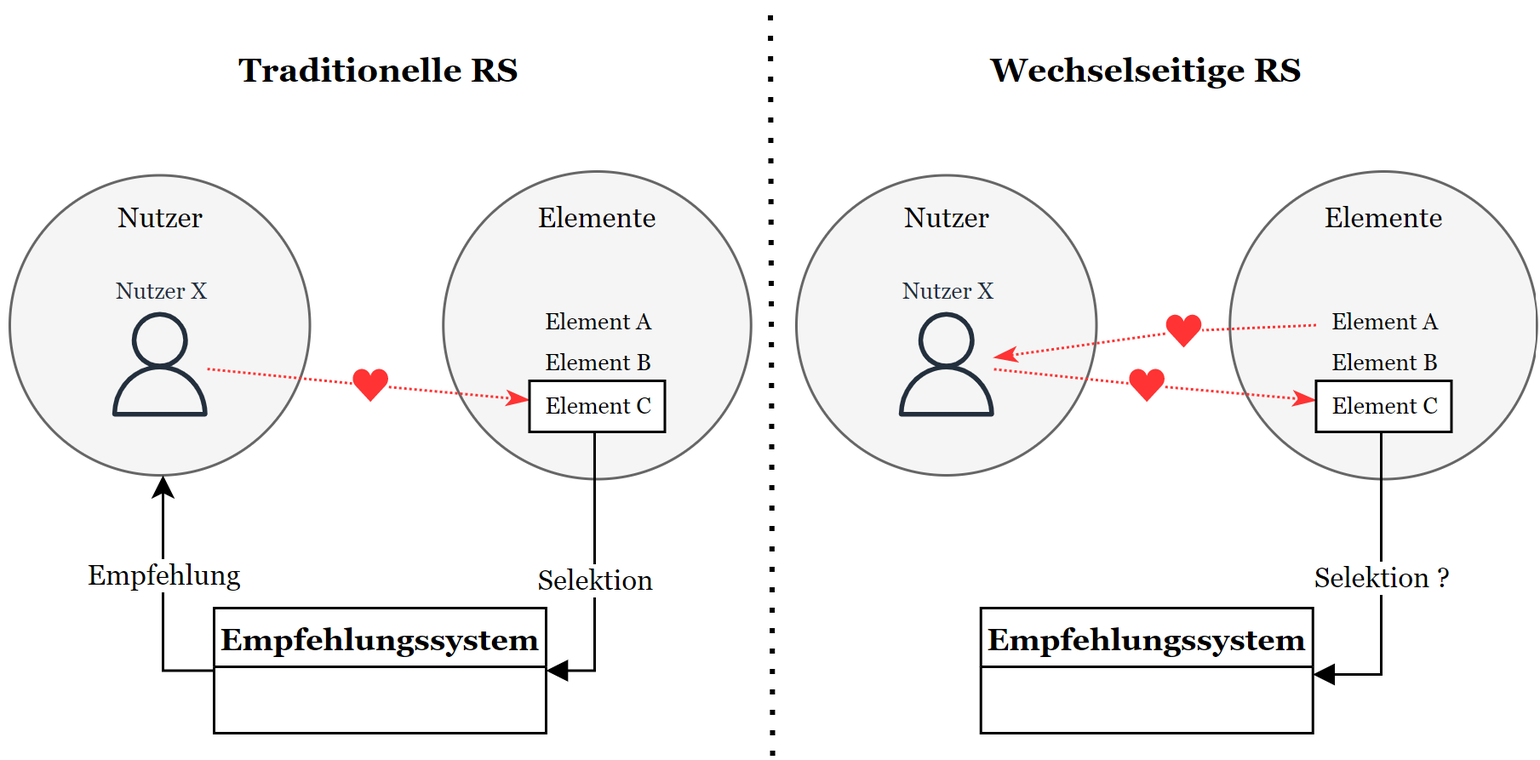
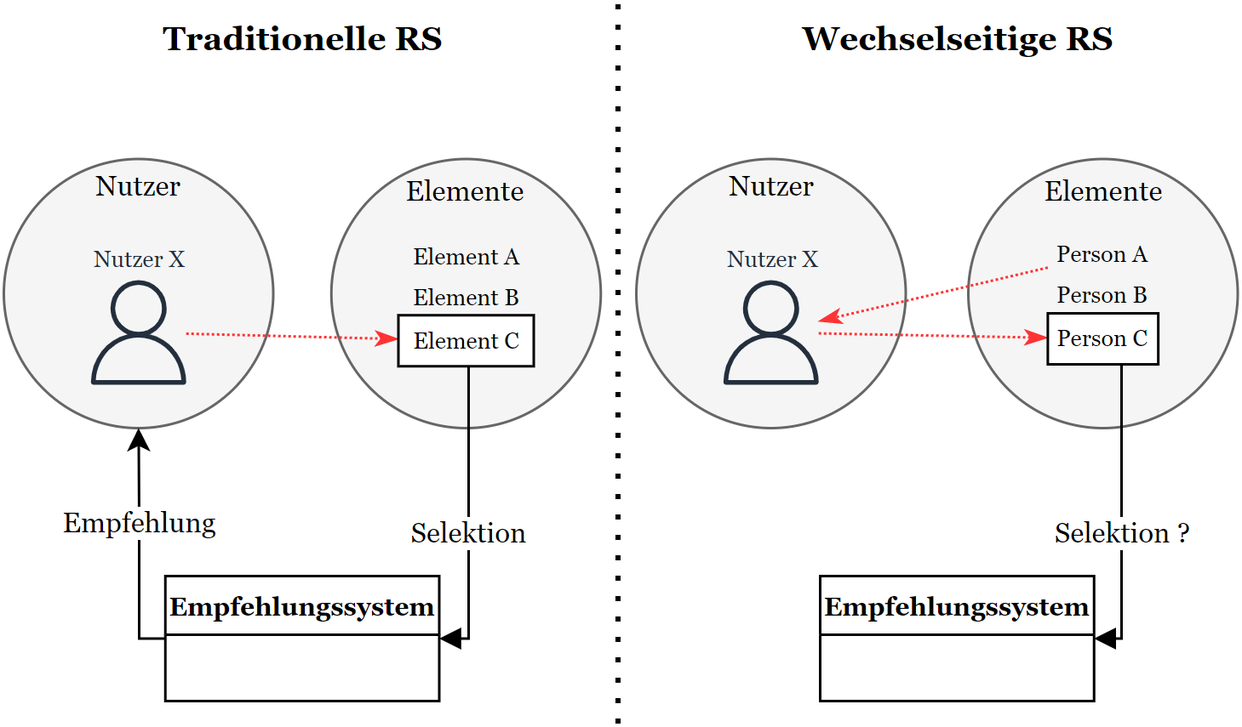
start problemstellung rrs

diff --git a/chapters/empfehlungssysteme.tex b/chapters/empfehlungssysteme.tex
@@ -41,23 +41,23 @@ Bekannte Beispiele für Attribute eines Nutzers sind das Geschlecht oder Alter e
 % Unterschied Kombination und Interaktion? Kombibnation ist nicht zwangsläufig das vorhandensein einer Interaktion
 
 % Einigung: Nützlichkeit bezieht sich nicht auf die Güte einer Empfehlung, sondern auf den Nutzen einer Kombination. Güte beschreibt Wert einer Empfehlung.
-Der Begriff der "Nützlichkeit" wird in der Literatur vermehrt verwendet, um den Wert eines Elements für einen Nutzer zu beschreiben \cite[S. 10f]{ricci:inbook}\cite[S. 1]{klahold:book}\cite[S. 735]{adomavicius:inproceedings}.\footnote{Unter der Nützlichkeit kann in dem Kontext von Empfehlungssystemen auch die Güte einer Empfehlung verstanden werden \cite[S. 37ff]{klahold:book}.}
+Der Begriff der "Nützlichkeit" wird in der Literatur vermehrt verwendet, um den Wert eines Elements für einen Nutzer zu beschreiben \cite[S. 10f.]{ricci:inbook}\cite[S. 1]{klahold:book}\cite[S. 735]{adomavicius:inproceedings}.\footnote{Unter der Nützlichkeit kann in dem Kontext von Empfehlungssystemen auch die Güte einer Empfehlung verstanden werden \cite[S. 37ff.]{klahold:book}.}
 Dabei kann der Nutzen sowohl unmittelbar über Angaben eines Nutzers erschlossen, als auch über eine Nutzenfunktion des Empfehlungssystems berechnet werden \cite[S. 735]{adomavicius:inproceedings}.
 Da die Ermittlung des Nutzen durchaus komplex sein kann, wird der Aspekt der "Nützlichkeit" in Kapitel \ref{ch:empfehlungssysteme:nutzenfunktion} ausführlich aufgegriffen.
 
 \section{Problemstellung}
 \label{ch:empfehlungssysteme:problemstellung}
 % Im vorangegangenen Kapitel wurden grundlegende Komponenten von Empfehlungssystemen und deren Zusammenspiel erläutert.
-Das grundlegende Problem, welches Empfehlungssysteme zu lösen versuchen, besteht darin, aus einer Menge an Elementen das Element bzw. die Elemente zu ermitteln, von denen angenommen werden kann, dass diese für die Empfänger einer Empfehlung von Relevanz sind \cite[S. 734f]{adomavicius:inproceedings}\cite[S. 76]{jannach:inproceedings}.
+Das grundlegende Problem, welches Empfehlungssysteme zu lösen versuchen, besteht darin, aus einer Menge an Elementen das Element bzw. die Elemente zu ermitteln, von denen angenommen werden kann, dass diese für die Empfänger einer Empfehlung von Relevanz sind \cite[S. 734f.]{adomavicius:inproceedings}\cite[S. 76]{jannach:inproceedings}.
 Relevanz bedeutet in dem Kontext von Empfehlungssystemen, dass die Empfehlung an einen Nutzer bzw. eine Gruppe an Nutzern einen maximalen Nutzen bietet \cite[S. 49]{adomavicius:inproceedings:2}\cite[S. 219]{lakiotaki:inproceedings}.
 Formal ausgedrückt besteht das Problem darin, einem Nutzer $c$ eine Menge an Elementen $s^{'}$ $\in$ $S$ zur Verfügung zu stellen, für die gilt:
 \begin{equation}\label{eq1}
     \forall c\in C,  s'_c = arg\max_{s \in S} R(c,s)
 \end{equation}
-Hierbei gibt $C$ die Menge aller Nutzer eines Systems und $R(c,s)$ den Nutzen einer Kombination $(c,s)$ an Element $s$ und Nutzer $c$ (im Folgenden Nutzer- Element- Kombination genannt \cite[S. 3]{recommenderSystems:2016}) an \cite[S. 734f]{adomavicius:inproceedings}\cite[S. 219]{lakiotaki:inproceedings}.
+Hierbei gibt $C$ die Menge aller Nutzer eines Systems und $R(c,s)$ den Nutzen einer Kombination $(c,s)$ an Element $s$ und Nutzer $c$ (im Folgenden Nutzer- Element- Kombination genannt \cite[S. 3]{recommenderSystems:2016}) an \cite[S. 734f.]{adomavicius:inproceedings}\cite[S. 219]{lakiotaki:inproceedings}.
 Der Kontext $K$ wird in \textcite[S. 1]{klahold:book} explizit für die Ermittlung des Nutzen einer Nutzer- Element- Kombination angeführt.
-Grundsätzlich stellen kontextbasierte Empfehlungssysteme, das heißt Syteme, die den Kontext von Empfehlungen für die Ermittlung des Nutzen berücksichtigen, eine Erweiterung traditioneller Empfehlungssyteme dar \cite[S. 744ff]{adomavicius:inproceedings}.
-In der Literatur wird der Nutzen einer Nutzer- Element- Kombination traditionell ohne Berücksichtigung des Kontextes betrachtet, weshalb der Kontext von Empfehlungen in dieser Arbeit vernachlässigt wird \cite[S. 734f]{adomavicius:inproceedings}\cite[S. 219]{lakiotaki:inproceedings}\cite[S. 3]{jawaheer:article}.
+Grundsätzlich stellen kontextbasierte Empfehlungssysteme, das heißt Syteme, die den Kontext von Empfehlungen für die Ermittlung des Nutzen berücksichtigen, eine Erweiterung traditioneller Empfehlungssyteme dar \cite[S. 744ff.]{adomavicius:inproceedings}.
+In der Literatur wird der Nutzen einer Nutzer- Element- Kombination traditionell ohne Berücksichtigung des Kontextes betrachtet, weshalb der Kontext von Empfehlungen in dieser Arbeit vernachlässigt wird \cite[S. 734f.]{adomavicius:inproceedings}\cite[S. 219]{lakiotaki:inproceedings}\cite[S. 3]{jawaheer:article}.
 In Anlehnung an \textcite[S. 3]{jawaheer:article} wird der interessierte Leser für eine detaillierte Übersicht zu kontextbasierten Empfehlungssystemen auf \textcite[S. 191ff]{adomavicius:3:inbook} verwiesen.
 % In den Formulierungen der Gleichung in \cite[S. 734f]{adomavicius:inproceedings} und \cite[S. 219]{lakiotaki:inproceedings} wird jedoch nicht explizit auf den Kontext als Bedingung zur Erfüllung von Gleichung \ref{eq1} hingewiesen.
 % Es wird angenommen, dass der Kontext für die Ermittlung der Güte einer Empfehlung implizit berücksichtigt wird und daher auf eine explizite Nennung verzichtet wurde. In Anlehnung an \cite[S. 734f]{adomavicius:inproceedings} und \cite[S. 219]{lakiotaki:inproceedings} wurde daher auf die explizite Unterscheidung im weiteren Verlauf verzichtet.
@@ -170,7 +170,7 @@ Demnach kann der Wert einer Bewertung $\hat{r}_{c,s}$ vorhergesagt werden, entwe
 % bei uns wird dann quasi u für alle werte berechnet, da wir ja nicht explizit einen wert annehmen, sondern Ro sich aus r1 und r2 usw zusammensetzt
 
 In der Praxis existieren verschiedene Techniken, um fehlende Nutzer-Elemet-Kombinationen vorherzusagen.
-Empfehlungssysteme können anhand der eingesetzten Technik für die Vorhersage in verschiedene Kategorien unterteilt werden \cite[S. 8 ff]{recommenderSystems:2016}.
+Empfehlungssysteme können anhand der eingesetzten Technik für die Vorhersage in verschiedene Kategorien unterteilt werden \cite[S. 8 ff.]{recommenderSystems:2016}.
 Zu den bekanntesten Kategorien von Empfehlungssystemen zählen:
 \begin{itemize}%Sind die mathematischen Bezeichnungen hier verwirrend oder sinnvoll?
 	\item \textit{Systeme des Kollaborativen Filterns:} Vorhersage fehlender Nutzer- Element- Interaktionen $r_{cs}$ eines Zielnutzers $c$ anhand vorhandener Nutzer- Element- Interaktionen $r_{c's}$ anderer Nutzer $c' \in C \backslash \{c\}$ des Systems, die dem Zielnutzer $c$ ähnlich sind.
@@ -180,7 +180,7 @@ Zu den bekanntesten Kategorien von Empfehlungssystemen zählen:
 \end{itemize}
 
 Der Fokus dieser Arbeit liegt auf der zweiten Phase des Empfehlungserstellungs-Prozesses, weshalb auf eine Erläuterung der Techniken nachfolgend verzichtet wird.
-Für eine detaillierte Übersicht der bekanntesten Werkzeuge wird der interessierte Leser auf \textcite[S. 8ff]{recommenderSystems:2016} verwiesen.
+Für eine detaillierte Übersicht der bekanntesten Werkzeuge wird der interessierte Leser auf \textcite[S. 8ff.]{recommenderSystems:2016} verwiesen.
 
 \subsection{Ranking}
 \label{ch:empfehlungssysteme:empfehlungserstellung:recommendation}
@@ -218,7 +218,7 @@ So kann es sinnvoll sein der Mitarbeiterin Erika M. die Fähigkeit MySQL für ei
 
 \section{Präferenzen in Empfehlungssystemen}
 \label{ch:empfehlungssysteme:preferences}
-Im Zusammenhang mit Empfehlungssystemen fällt häufig der Begriff der Präferenzen (engl.: preferences) \cite[S. 2]{ricci:inbook}\cite[S. 11f]{recommenderSystems:2016}.
+Im Zusammenhang mit Empfehlungssystemen fällt häufig der Begriff der Präferenzen (engl.: preferences) \cite[S. 2]{ricci:inbook}\cite[S. 11f.]{recommenderSystems:2016}.
 % Brauch man hier überhaupt ein zitat, wenn ich die Annahme selber aufstelle?
 In diesem Kapitel werden Präferenzen allgemein erläutert und in dem Kontext von Empfehlungssystemen inhaltlich abgegrenzt.
 
@@ -247,7 +247,7 @@ Das bedeutet, alle Nutzer eines Empfehlungssystems bekommen, unabhängig von der
 
 Für die Ermittlung nicht-personalisierter Empfehlungen können Popularitätsmetriken herangezogen werden.
 Dies folgt der Annahme, dass Popularität einen guten Prädiktor der Präferenzen aller Nutzer eines Systems darstellt \cite[S. 406]{unternährer:article}.
-Popularitätsmetriken stellen sortierte Listen dar, über die Elemente in ordinale Relationen gesetzt werden können (e.g. Element A ist "besser" als Element B, da es einen höheren Rang aufweist) \cite[S. 404ff]{unternährer:article}.
+Popularitätsmetriken stellen sortierte Listen dar, über die Elemente in ordinale Relationen gesetzt werden können (e.g. Element A ist "besser" als Element B, da es einen höheren Rang aufweist) \cite[S. 404ff.]{unternährer:article}.
 Die Listen werden basierend auf "aggregierten Präferenzen" aller Nutzer eines Systems generiert.
 Hierfür muss im Vorfeld bestimmt werden, welcher Indikator für die Bestimmung der Popularität in einem System geeignet ist (z.B. die Anzahl an Klicks oder Gefällt-mir-Angaben) \cite[S. 406]{unternährer:article}.
 
@@ -268,7 +268,7 @@ Der Grad der Personalisierung ermöglicht eine weitere Unterteilung der personal
 Unter schwacher Pesonalisierung versteht \textcite[S. 407]{unternährer:article} stereotypisierende Empfehlungen, die Nutzer, basierend auf deren Attributen (z.B. Wohnort, Alter, Geschlecht), bestimmten Kategorien zuordnen.
 Prinzipiell ähneln schwach-personalisierte Empfehlungen den nicht-personalisierten Empfehlungen, da sie auch basierend auf Popularitätsmetriken erstellt werden.
 Der Unterschied besteht darin, dass die Popularität von Elementen innerhalb einer Kategorie ermittelt wird.
-Die Empfehlungen der populärsten Elemente für einen Nutzer erfolgen dann in Abhängigkeit der kategorialen Zugehörigkeit des Nutzers \cite[S. 407ff]{unternährer:article}.
+Die Empfehlungen der populärsten Elemente für einen Nutzer erfolgen dann in Abhängigkeit der kategorialen Zugehörigkeit des Nutzers \cite[S. 407ff.]{unternährer:article}.
 
 Stark-personalisierte Empfehlungen verzichten auf pauschale und kategoriale Vorentscheidungen und beziehen sich für das Ermitteln von Empfehlungen auf paarweise Relationen (sog. "Good Matches") zwischen Nutzern untereinander bzw. zwischen Nutzern und deren Elementen \cite[S. 415]{unternährer:article}.
 Solche Sachverhalte sind vorwiegend in Systemen des Kollaborativen Filterns und Inhaltsbasierten Empfehlungssystemen anzutreffen.
@@ -283,7 +283,7 @@ Eine Voraussetzung für das Erstellen personalisierter Empfehlungen ist die Abbi
 
 \subsection{Zugrundeliegende Datenstruktur}% Frage ist, wie Präferenzen in RS aussehen, erwähnen
 Präferenzen von Nutzern werden in Empfehlungssystemen über sogenannte Nutzermodelle dargestellt \cite[S. 9]{ricci:inbook}\cite[S. 2]{jawaheer:article}\cite[S. 246]{berkovsky:article}.
-Nach \textcite[S. 249f]{berkovsky:article} speichern Nutzermodelle die Präferenzen traditionell in einer zweidimensionalen Matrix $R'_{gen}$:
+Nach \textcite[S. 249f.]{berkovsky:article} speichern Nutzermodelle die Präferenzen traditionell in einer zweidimensionalen Matrix $R'_{gen}$:
 \begin{equation}\label{eq4}
     R'_{gen}: Nutzer_{Attribut} \times Element_{Attribut} \rightarrow rating
 \end{equation}
@@ -293,7 +293,7 @@ Das $rating$ stellt die Bewertungen der Nutzer für Elemente dar \cite[S. 250]{b
 In Abhängigkeit der eingesetzten Technik innerhalb eines Empfehlungssystems (Vgl. Kapitel \ref{ch:empfehlungssysteme:empfehlungserstellung:prediction}) muss die Matrix $R'_{gen}$ Nutzermodelle mit unterschiedlichen Daten abbilden können. % Zitat? \cite[S. 248]{berkovsky:article}
 Hierfür sind in Abbildung \ref{fig:empfehlungssysteme:preferences:abb1} drei Beispiele unterschiedlicher Nutzermodelle grafisch dargestellt, welche nachfolgend erläutert werden.
 
-In Systemen des kollaborativen Filterns werden Präferenzen von Nutzern für Elemente in der Rating-Matrix $R$ gespeichert \cite[S. 246ff]{berkovsky:article}.
+In Systemen des kollaborativen Filterns werden Präferenzen von Nutzern für Elemente in der Rating-Matrix $R$ gespeichert \cite[S. 246ff.]{berkovsky:article}.
 Nutzer und Elemente werden dabei jeweils über ein eindeutiges Attribut (z.B. ID, Name) beschrieben.
 Daraus ergibt sich nach \textcite[S. 250]{berkovsky:article} für die Abbildung der Nutzermodelle in Matrix $R_{CF}$ folgende Form:
 \begin{equation}\label{eq5}
@@ -310,7 +310,8 @@ Mitarbeiter und Fähigkeiten werden jeweils eindeutig über deren Namen gekennze
     \subfloat[Nutzer$_{ID}\times$Element$_{ID}$ - Matrix]{\includegraphics[height=1.5in]{gfx/abbildung-präferenzen-A.png}\label{fig:empfehlungssysteme:preferences:abb1:1}}\\
     \subfloat[Nutzer$_{ID}\times$Element$_{Attribut}$ - Matrix]{\includegraphics[height=1.48in]{gfx/abbildung-präferenzen-B.png}\label{fig:empfehlungssysteme:preferences:abb1:2}}\\
     \subfloat[Nutzer$_{Attribut}\times$Element$_{Attribut}\times$Kontext$_{Attribut}$ - Matrix]{\includegraphics[height=1.85in]{gfx/abbildung-präferenzen-C.png}\label{fig:empfehlungssysteme:preferences:abb1:3}}
-  \caption{Abbildung von Präferenzen} \label{fig:empfehlungssysteme:preferences:abb1}
+  \caption[Abbildung von Präferenzen]{Abbildung von Präferenzen\\
+	(Eigene Darstellung in Anlehnung an \cite[S. 198]{adomavicius:3:inbook})}\label{fig:empfehlungssysteme:preferences:abb1}
 \end{figure}
 % Werden Nutzermodelle in Systemen folglich über eine Nutzer$\times$Element-Matrix abgebildet, können die Präferenzen eines Nutzers unmittelbar aus der Rating-Matrix abgelesen werden.
 
@@ -356,7 +357,7 @@ Für die Darstellung der Nutzermodelle wird daher in kontextbasierten Empfehlung
 \begin{equation}\label{eq9}
     R_{CA}: Nutzer_{Attribut} \times Element_{Attribut} \times Kontext_{Attribut} \rightarrow rating
 \end{equation}
-Matrix $R_{CA}$ erweitert die zweidimensionale Darstellung aus Gleichung \ref{eq4} um die Dimension $Kontext_{Attribut}$, welche den Kontext einer Bewertung angibt \cite[S. 254]{berkovsky:article}.\footnote{\textcite[S. 249ff]{berkovsky:article} merken an, dass es sich bei den Dimensionen $Nutzer_{Attribut}$ und $Element_{Attribut}$ auch um Sammlungen von Attributen handeln kann. Dies ist der Fall, wenn Nutzer oder Elemente für das Abbilden von Präferenzen über mehrere Attribute beschrieben werden. Angenommen die Präferenzen von Nutzern können über $n$ Attribute des Nutzers und $m$ Attribute der Elemente ($n \cup m > 1$) beschrieben werden, so ergibt sich für $R'_{gen}$ eine multidimenisonale $n+m$-Matrix. Dies gilt analog für die Dimension $Context_{Attribut}$ \cite[S. 254f]{berkovsky:article}.}
+Matrix $R_{CA}$ erweitert die zweidimensionale Darstellung aus Gleichung \ref{eq4} um die Dimension $Kontext_{Attribut}$, welche den Kontext einer Bewertung angibt \cite[S. 254]{berkovsky:article}.\footnote{\textcite[S. 249ff.]{berkovsky:article} merken an, dass es sich bei den Dimensionen $Nutzer_{Attribut}$ und $Element_{Attribut}$ auch um Sammlungen von Attributen handeln kann. Dies ist der Fall, wenn Nutzer oder Elemente für das Abbilden von Präferenzen über mehrere Attribute beschrieben werden. Angenommen die Präferenzen von Nutzern können über $n$ Attribute des Nutzers und $m$ Attribute der Elemente ($n \cup m > 1$) beschrieben werden, so ergibt sich für $R'_{gen}$ eine multidimenisonale $n+m$-Matrix. Dies gilt analog für die Dimension $Context_{Attribut}$ \cite[S. 254f.]{berkovsky:article}.}
 % MIT AUFNEHMEN JA/ NEIN?
 % In Anlehnung an \textcite[S. 250ff]{berkovsky:article} und \textcite[S. 198]{adomavicius:3:inbook} kann für die Abbildung der zugehörigen Nutzermodelle Liste an Tripeln angenommen werden:
 % \begin{equation}\label{eq10}
@@ -382,19 +383,21 @@ Das Nutzermodell $UM$ des Mitarbeiters John D. ist in Abbildung \ref{fig:empfehl
 \label{ch:empfehlungssysteme:rrs}
 % Problem: ist reciprocal recommender nur, wenn das empfehlende element auch selber entscheidet, wen es annimmt?
 Nach \textcite[S. 2429]{palomares:inproceedings} werden Empfehlungssysteme größtenteils in Online-Diensten eingesetzt, um Nutzern basierend auf ihren (expliziten oder impliziten) Präferenzen potenziell interessante Elemente vorzuschlagen.
-Zu klassischen Inhalten von Empfehlungen zählt \textcite[S. 2429]{palomares:inproceedings} unter anderem Musik, Filme, Konsumgüter, Hotels und Restaurants. 
-Empfehlungssysteme, in denen die Inhalte von Empfehlungen gleichzeitig die Nutzer eines Systems bilden (bspw. in Online-Dating-Plattformen oder Recruiting-Systemen), werden in der Literatur als wechselseitige Empfehlungssysteme (engl.: \ac{RRS}) bezeichnet \cite[S. 207]{pizzato:2010}\cite[S. 2199]{akehurst:inproceedings}.
-Nachfolgend soll das Konzept der RRS und dessen zugrundeliegende Problemstellung erläutert werden.
-
-%Im vorangegangenen Kapitel wurde der Begriff der Präferenzen als Vorlieben und Verhaltensweisen von Nutzern in Empfehlungssystemen definiert.
+Zu klassischen Inhalten von Empfehlungen zählt \textcite[S. 2429]{palomares:inproceedings} Objekte wie Musik, Filme, Konsumgüter und Restaurants. 
+ 
+% Als wechselseitig werden Empfehlungssysteme bezeichnet, in denen Personen den Inhalt von Empfehlungen bilden und für die Empfehlungserstellung sowohl die Präferenzen der Empfänger, als auch der empfohlenen Personen berücksichtigt werden (bspw. in Online-Dating-Plattformen oder Recruiting-Systemen) \cite[S. 35]{li:inproceedings}\cite[S. 2199]{akehurst:inproceedings}\cite[S. 207]{pizzato:2010}.
+Empfehlungssysteme, in denen Personen die Inhalte von Empfehlungen bilden und diese Empfehlungen reziprok sind, werden in der Literatur als wechselseitige Empfehlungssysteme (engl.: \ac{RRS}) bezeichnet \cite[S. 35]{li:inproceedings}\cite[S. 2199]{akehurst:inproceedings}\cite[S. 207]{pizzato:2010}.
+Reziprok bedeutet, dass für eine erfolgreiche Empfehlung sowohl die Präferenzen des Empfängers einer Empfehlung, als auch die Präferenzen der empfohlenen Person berücksichtigt werden \cite[S. 447]{pizzato:2013}\cite[S. 22]{kleinerman:inproceedings}.
+Bekannte Domänen für den Einsatz wechselseitiger Empfehlungssysteme sind Online-Dating und (semi-)automatisiertes Recruiting.
+Nachfolgend wird das Konzept der RRS und dessen zugrundeliegende Problemstellung erläutert.
 
 \subsection{People-to-People-Empfehlung}% oder umbenennen in Allgemeines Konzept
 \label{ch:empfehlungssysteme:rrs:people_to_people}
 Ein grundlegender Unterschied zwischen klassischen Empfehlungssystemen und RRS liegt in der Art der Empfehlung.
-Diese können in \ac{I2P} und \ac{P2P}-Empfehlungen unterschieden werden \cite[S. 62f]{kim:inproceedings}.
+Diese können in \ac{I2P}- und \ac{P2P}-Empfehlungen unterschieden werden \cite[S. 62f.]{kim:inproceedings}.
 
-In der Literatur wird unter traditioneller I2P-Empfehlung die Empfehlung klassischer Inhalte (z.B. Bücher, Filme, Restaurants) verstanden \cite[S. 2199]{akehurst:inproceedings}\cite[S. 2429]{palomares:inproceedings}.
-In I2P-Empfehlungen ist der Erfolg einer Empfehlung durch die Akzeptanz des Empfehlungsempfängers (Nutzer) gekennzeichnet \cite[S. 131]{kleinerman:2:inproceedings}\cite[S. 546]{koprinska:inbook}.
+In der Literatur wird unter traditioneller I2P-Empfehlung die Empfehlung klassischer Inhalte (z.B. Bücher, Filme, Hotels) verstanden \cite[S. 2199]{akehurst:inproceedings}\cite[S. 2429]{palomares:inproceedings}.
+In I2P-Empfehlungen ist der Erfolg einer Empfehlung durch die Akzeptanz des Empfehlungsempfängers (d.h. des Nutzers) gekennzeichnet \cite[S. 131]{kleinerman:2:inproceedings}\cite[S. 546]{koprinska:inbook}.
 Für personalisierte I2P-Empfehlungen verwenden Empfehlungssysteme Wissen über die Präferenzen der Nutzer, um ihnen potenziell interessante Elemente zu empfehlen \cite[S. 403]{terveen:article}.
 
 % Ein grundlegendes Problem, welches dieser Art der Empfehlung löst, ist das Problem der Informationsüberlastung \cite[S. 403]{terveen:article}.
@@ -406,42 +409,22 @@ Im Gegensatz zu I2P-Empfehlungen, handelt es sich bei den empfohlenen Elementen 
 Das bedeutet, dass die empfohlenen Elemente Präferenzen besitzen und auch positiv oder negativ reagieren können \cite[S. 2]{kazienko:inbook}.
 Dies ist ein besonderer Aspekt, den es zu beachten gilt, da dadurch die Qualität der Empfehlungen beeinflusst werden kann \cite[S. 208]{pizzato:2010}\cite[S. 2199]{akehurst:inproceedings}.
 
-
 \subsection{Abgrenzung traditioneller Empfehlungssysteme}
 \label{ch:empfehlungssysteme:rrs:traditional_vs_rrs}
-Ein Großteil der P2P-Empfehlungen beruhen auf dem Aspekt der Reziprozität (engl.: reciprocity (dt.: Gegenseitigkeit)) \cite[S. 545]{koprinska:inbook}.
-Das bedeutet, dass für eine erfolgreiche Empfehlung sowohl die Präferenzen des Empfängers einer Empfehlung, als auch die Präferenzen der empfohlenen Person berücksichtigt werden \cite[S. 447]{pizzato:2013}\cite[S. 22]{kleinerman:inproceedings}.
-Der Erfolg einer Empfehlung hängt folglich von bilateralen Präferenzen ab, nicht wie in traditionellen Systemen lediglich von den Präferenzen der Nutzer \cite[S. 1468]{yildirim:article}.
+Bei Empfehlungen in RRS handelt es sich um reziproke P2P-Empfehlungen \cite[S. 207]{pizzato:2010}.
+Das heißt, der Erfolg einer Empfehlung in RRS hängt von der Berücksichtigung der bilateralen Präferenzen ab, nicht, wie in traditionellen Systemen, lediglich von den Präferenzen der Nutzer \cite[S. 1468]{yildirim:article}.
 So reicht es beispielsweise in einem Recruiting-System nicht aus, lediglich die Präferenzen eines Akteurs (bspw. dem Recruiter) zu berücksichtigen.
 Damit dem Recruiter auch Personen vorgeschlagen werden, die ein potenzielles Angebot annehmen würden, müssen die Präferenzen der Stellensuchenden ebenfalls in Betracht gezogen werden.
 Andernfalls besteht die Gefahr, dass einem Recruiter Stellensuchende vorgeschlagen werden, die aufgrund ihrer Präferenzen ein Angebot des Recruiters ablehnen.
 
-Nicht jede P2P-Empfehlung ist unmittelbar reziprok.
+Ein Großteil der P2P-Empfehlungen beruhen auf dem Aspekt der Reziprozität (engl.: reciprocity) \cite[S. 545]{koprinska:inbook}.
+Jedoch ist nicht jede P2P-Empfehlung unmittelbar reziprok.
 Empfehlungen können auch P2P-Empfehlungen sein und lediglich die Präferenzen des Nutzers berücksichtigen \cite[S. 2429]{palomares:inproceedings}.
 Ein Beispiel stellen P2P-Empfehlungen des sozialen Netzwerks Twitter dar \cite[S. 2429]{palomares:inproceedings}.
 Der Vorschlag einer anderen Person zu folgen beruht dabei lediglich auf den Präferenzen des Empfängers des Vorschlags.
 
 Neben dem Aspekt der Reziprozität besitzen RRS zusätzliche Eigenschaften, welche diese im Vergleich zu traditionellen Empfehlungssystemen inhärent komplex machen\cite[S. 2429]{palomares:inproceedings}\cite[S. 35]{li:inproceedings}\cite[S. 207]{pizzato:2010}.
 Die wichtigsten Unterschiede zwischen RRS und traditionellen RS sind in Tabelle \ref{tab2} zusammengefasst \cite[S. 546]{koprinska:inbook}.
-
-\begin{table}[htbp]
-    \begin{center}
-        \begin{tabular}{p{0.2\textwidth}|p{0.35\textwidth}|p{0.35\textwidth}}
-             & {\textbf{Traditionelle RS}} & {\textbf{Reciprocal RS}} \\
-            \hline
-            Reziprozität & Erfolg einer Empfehlung ist durch den Empfänger bestimmt. &  Erfolg einer Empfehlung ist sowohl durch den Empfänger als auch der empfohlenen Person bestimmt. \\
-            \hline
-            Passivität & Es wird akzeptiert, dass einige Elemente nicht Teil irgendwelcher Empfehlungen sind. &  Auch reaktive Nutzer müssen Teil von Empfehlungen sein. \\
-            \hline
-            Rolle der Nutzerprofile & Kein Anreiz für Nutzer zum Pflegen des Nutzerprofils. &  Das Pflegen von Nutzerprofilen wird erwartet. \\
-            \hline
-            Endlichkeit & Ein Element kann allen Nutzern vorgeschlagen werden. & Beliebte Personen sollten nicht allen Nutzern vorgeschlagen werden. \\
-    \end{tabular}
-    \end{center}
-    \caption[Grundlegende Unterschiede von RS und RRS]{Grundlegende Unterschiede von RS und RRS \\
-	(Eigene Darstellung in Anlehnung an \cite[S. 546]{koprinska:inbook} und \cite[S. 35f]{li:inproceedings})}
-	\label{tab2}
-\end{table}
 
 In RRS ist es von Bedeutung die Passivität von Personen zu berücksichtigen \cite[S. 35]{li:inproceedings}.
 Dazu gehört hauptsächlich, reaktive Personen in Empfehlungen einzubeziehen, die nicht aktiv den Kontakt zu anderen Personen suchen \cite[S. 459]{pizzato:2013}.
@@ -463,13 +446,40 @@ Das bedeutet, ein Element kann zeitgleich jedem Nutzer eines Systems vorgeschlag
 Diese Eigenschaft wird als Endlichkeit bezeichnet \cite[S. 35]{li:inproceedings}.
 % Weiterer unterschied: RRS unterstützen keine n-to-n connections % S. 423, https://link.springer.com/content/pdf/10.1007/978-1-0716-2197-4.pdf
 
+\begin{table}[htbp]
+    \begin{center}
+        \begin{tabular}{p{0.2\textwidth}|p{0.35\textwidth}|p{0.35\textwidth}}
+             & {\textbf{Traditionelle RS}} & {\textbf{Reciprocal RS}} \\
+            \hline
+            Reziprozität & Erfolg einer Empfehlung ist durch den Empfänger bestimmt. &  Erfolg einer Empfehlung ist sowohl durch den Empfänger als auch der empfohlenen Person bestimmt. \\
+            \hline
+            Passivität & Es wird akzeptiert, dass einige Elemente nicht Teil irgendwelcher Empfehlungen sind. &  Auch reaktive Nutzer müssen Teil von Empfehlungen sein. \\
+            \hline
+            Rolle der Nutzerprofile & Kein Anreiz für Nutzer zum Pflegen des Nutzerprofils. &  Das Pflegen von Nutzerprofilen wird erwartet. \\
+            \hline
+            Endlichkeit & Ein Element kann allen Nutzern vorgeschlagen werden. & Beliebte Personen sollten nicht allen Nutzern vorgeschlagen werden. \\
+    \end{tabular}
+    \end{center}
+    \caption[Grundlegende Unterschiede von RS und RRS]{Grundlegende Unterschiede von RS und RRS \\
+	(Eigene Darstellung in Anlehnung an \cite[S. 546]{koprinska:inbook} und \cite[S. 35f.]{li:inproceedings})}
+	\label{tab2}
+\end{table}
+
 \subsection{Problemstellung}
 Nach \textcite[S. 35]{li:inproceedings} stellt das Zufriedenstellen der Bedürfnisse beider Akteure, das heißt von sowohl Empfänger einer Empfehlung als auch empfohlener Person, die größte Herausforderung wechselseitiger RS dar.
-Dieser Zusammenhang ist nachfolgend in Abbildung \ref{fig:empfehlungssysteme:rrs:abb1} dargestellt.
-Ein roter Pfeil von einer Person zu einer anderen stellt hierbei die Präferenz einer Person für eine andere dar.
-% Hier erklären, dass das bedeutet, dass eine person den präferenzen entpsricht (bspw. aufgrund von angaben im nutzerprofil)
-major challenge: how to satisfy the needs of both users in a rec % S. 35, file://wsl%24/Ubuntu/home/masc6/Projects/masterarbeit/literatur/MEET%20-%20A%20Generalized%20Framework.pdf
-stable marriage problem % file://wsl%24/Ubuntu/home/masc6/Projects/masterarbeit/literatur/MEET%20-%20A%20Generalized%20Framework.pdf
+Das Problem ist nachfolgend in Abbildung \ref{fig:empfehlungssysteme:rrs:abb1} veranschaulicht.\footnote{Es gilt zu beachten, dass in RRS die Elemente von Empfehlungen (empfohlene Personen) gleichzeitig auch Nutzer desselbigen Systems darstellen können.}
+Hierfür wurde die vereinfachte Darstellung des Empfehlungssystems aus Abbildung \ref{fig:empfehlungssysteme:einführung:abb1} aufgegriffen.
+
+Auf der linken Seite der Abbildung sind die Komponenten eines traditionellen Empfehlungssystems dargestellt.
+Elemente, die die Bedürfnisse des Nutzers $X$ erfüllen, sind durch einen empfangenden roten Pfeil gekennzeichnet.
+Fehlende Verbindungen zwischen Elementen und dem Nutzer $X$ bedeuten, dass ein Element die Bedürfnisse des Nutzers $X$ nicht erfüllt.
+Soll dem Nutzer $X$ das Element empfohlen werden, welches seine Bedürfnisse am stärksten erfüllt, würde nach Abbildung \ref{fig:empfehlungssysteme:rrs:abb1} eindeutig Element $C$ ausgewählt werden.
+
+Auf der rechten Seite von Abbildung \ref{fig:empfehlungssysteme:rrs:abb1} sind die Komponenten eines wechselseitigen Empfehlungssystems vereinfacht dargestellt.
+Zusätzlich zu den präferierten Elementen des Nutzers $X$ sind in der Darstellung auch die Präferenzen der empfohlenen Personen abgebildet.
+Daraus wird ersichtlich, dass Person $C$ die Bedürfnisse des Nutzers $X$ erfüllt, aber eine Empfehlung von Person $C$ für Nutzer $X$ nicht die Bedürfnisse von Person $C$ erfüllen würde.
+Eine Empfehlung von Person $A$ würde die Bedürfnisse von Person $A$ erfüllen, dann jedoch die Bedürfnisse des Nutzers $X$ unerfüllt lassen.
+Das Problem besteht folglich darin, aus einer Menge an Personen eine passende Person für Nutzer $X$ zu ermitteln, sodass sowohl die Bedürfnisse des Nutzers als auch der empfohlenen Person möglichst optimal erfüllt werden.
 
 \begin{figure}[H]
     \centering
@@ -477,5 +487,17 @@ stable marriage problem % file://wsl%24/Ubuntu/home/masc6/Projects/masterarbeit/
 	\caption[Traditionelle vs. wechselseitige Empfehlungssysteme]{Traditionelle vs. wechselseitige Empfehlungssysteme\\}
 	\label{fig:empfehlungssysteme:rrs:abb1}
 \end{figure}
+
+Nach \textcite[S. 36]{li:inproceedings} kann diese Problemstellung der reziproken Empfehlung mathematisch als das "Stable Marriage"-Problem modelliert werden.
+Das "Stable-Marriage"-Problem beschreibt das Problem eine optimale Paarung (engl.: Match) zweier Elemente anhand ihrer Präferenzen zu Bestimmen, sodass keines der Elemente durch Paarung mit einem anderen Partner besser gestellt wäre \cite[S. 36]{li:inproceedings}\cite[S. 67]{diaz:inproceedings}.
+Formal kann das Problem formuliert werden als:
+\begin{equation}\label{eq10}
+    s'_c = arg\max_{s \in S} F_{s}^{d} \textnormal{ satisfies } F_{c}^{p} \cap F_{c}^{d} \textnormal{ satisfies } F_{s}^{p}
+\end{equation}
+
+Für reziproke Empfehlungen wird meist kein "hartes" Match zwischen Nutzer und Element gesucht, sondern eine sortierte Liste an potenziellen Partnern für einen Nutzer \cite[S. 67]{diaz:inproceedings}.
+% HIER WEITERMACHEN
+% erwähnen, dass es liste ist, also nicht nur argmax sodass ein s' gefunden wird, sondern liste an s'
+% nochmal hier schauen, eher genau so formulieren, wie es dort steht: file://wsl%24/Ubuntu/home/masc6/Projects/masterarbeit/literatur/MEET%20-%20A%20Generalized%20Framework.pdf
 
 \shorthandon{"}

diff --git a/chapters/notizen.tex b/chapters/notizen.tex
@@ -216,7 +216,7 @@ Oder kann das Gewicht auch individuell gestaltet werden? bspw. ein dislike deutl
 
 \section{Reciprocal RS (RRS)}
 Kernthema der Thesis, da RSS die Grundstruktur unseres Systems bilden
--> people-to-people-recommendation als Ausgangslage für die Modellbildung des Anwendungsfalls (people = Manager / Exxeta (Attribut 1: Projektanforderungen, Attribut 2: Angebot in Form von Fähigkeiten), people = Mitarbeiter (Attribut 1: Fähigkeiten, Attribut 2: Bedürfnisse)
+-> people-to-people-recommendation als Ausgangslage für die Modellbildung des Anwendungsfalls (people = Manager / Exxeta (Attribut 1: Projektanforderungen, Attribut 2: Angebot in Form von Fähigkeiten), people = Mitarbeiter (Attribut 1: Fähigkeiten, Attribut 2: Bedürfnisse))
 Bildet Basis für den Vergleich zu ähnlichen Themen, bei denen die Präferenzen von Elementen in RS einbezogen wurden.
 
 \textbf{Allgemeine Problemstellung: Was für ein problem versuchen RS zu lösen?}\\
